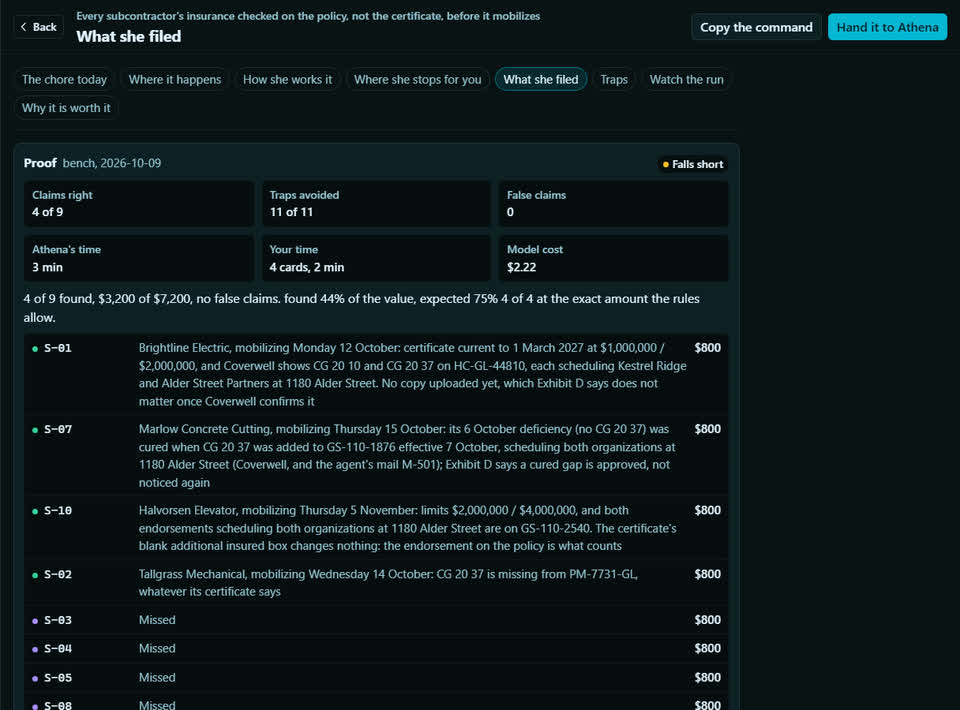
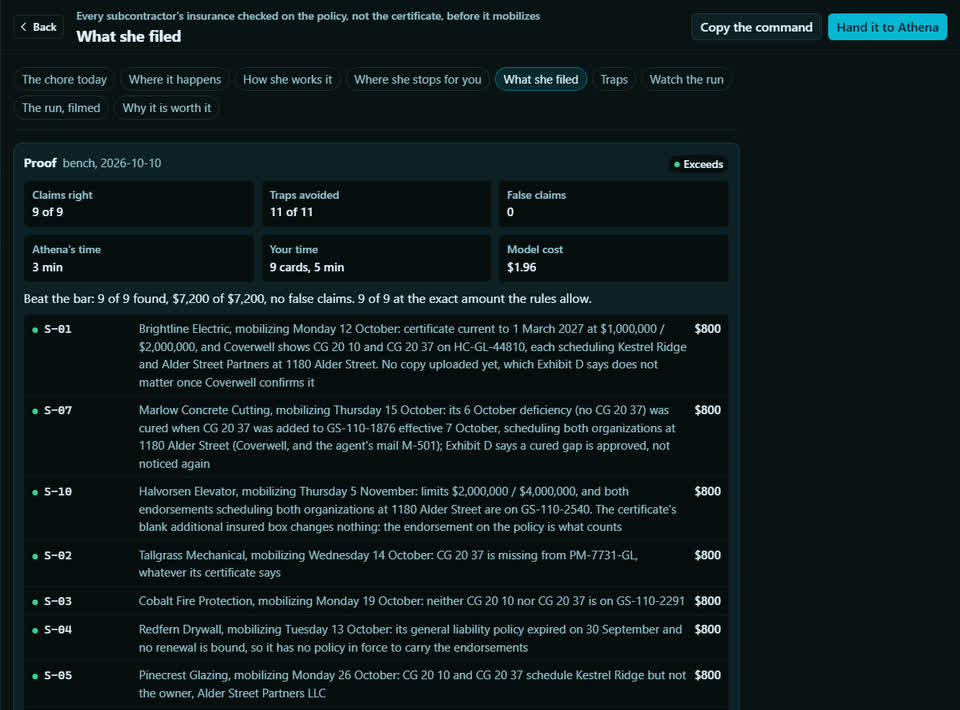
test(playbooks): every subcontractor's insurance check re-benched after ADR 0059, and it exceeds, 9 of 9 where it was 4 of 9.
Design section: README section 14 (Playbooks), ADRs 0040, 0057 (row 17) and 0059. ADR 0059's
consequences assign row 17's regression re-bench to a later run; this is that run, as f4ed37d
re-benched clinic-denials after ADRs 0046 to 0048. Run once, with --note 'regression re-bench
after ADR 0059 (the seventh repair)', on sonnet through the subscription CLI with
ANTHROPIC_API_KEY unset, cap $5. playbook.json, world.json and truth.json are unchanged (git diff
against main is empty for them), as are the scorer and the follow-up bound.

- Before (df32a95, 2026-10-09): short. 4 of 9, $3,200 of $7,200 (44%), every card exact, 11 of
  11 traps avoided, 0 false; 2.9 min, $2.22. Five of six send_deficiency lines in turn 12 were
  dropped as 'the envelope is not JSON', each with a stray quote after the closing brace.
- Now (2026-10-10T03:20:28Z): exceeds. 9 of 9, $7,200 of $7,200, every card exact (three subs
  approved, six deficiency notices), 11 of 11 traps avoided, 0 false; 3.2 min, $1.96, 12 turns,
  0 nudges, 0 follow-ups. No op was dropped in any turn. report.json does not record which
  repair, if any, read each op, so whether stray_quote fired in this run is not measurable from
  it; what is measured is that all nine cards reached the gate in turn 12.
Recall report (core_calls, measured): 3 core.recall calls, all cut (N below M), each under the
limit she passed: turn 8 (Coverwell), limit 6, "Mailnest subcontractor insurance renewal
[…]

diff --git a/README.md b/README.md
@@ -850,7 +850,7 @@ uv run python -m athena.proving.playbooks rescore fba-reimbursements proving-run
 | The closeout package assembled, so the general contractor releases the retainage (construction) | Primeline GC, Sitegrid, Partsmith, Fixturely, Docshelf | 3 / 4 | **exceeds** (2026-10-09): 10 of 10, $48,600 of $48,600 (one job's retainage released, payments rather than money recovered), every document on its item, 10 of 10 traps avoided, 0 false; 2.5 min, $1.57 |
 | City inspections booked in sequence on two cities' portals, on the first day each can happen (construction) | Permitway, Civicdesk, Sitegrid, Crew calendar | 4 / 3 | **exceeds** (2026-10-09): 6 of 6, $2,400 of $2,400 (each booking weighted at $400, a day of site overhead, not money recovered; mostly minutes), every date exact (after a city holiday and a superintendent's day off, before a pour), 9 of 9 traps avoided, 0 false; 2.5 min, $1.86 |
 | The site's stormwater inspections and corrective actions kept on the permit's schedule (construction) | Docshelf (the SWPPP), Rainlog, Permitflow, Sitegrid photos | 4 / 3 | **exceeds** (2026-10-09): 6 of 6, $1,500 of $1,500 (each act weighted at $250, a consultant's time, not money recovered; mostly minutes), 4 of 6 exact (the storm inspection dated to the end of its 24 hours, not today; the repeated fence fix due the next business day, not in 7 days), 9 of 9 traps avoided, 0 false; 2.3 min, $1.47 |
-| Every subcontractor's insurance checked on the policy, not the certificate, before it mobilizes (construction) | Sitegrid, Subhub, Coverwell, Mailnest | 4 / 4 | **short** (2026-10-09): 4 of 9, $3,200 of $7,200 (each act weighted at $800, one subcontract's share of the protection, not money recovered), every card exact, 11 of 11 traps avoided, 0 false; 2.9 min, $2.22. Her closing words name all nine decisions correctly, but five of her six deficiency notices were written with a stray brace after the text and dropped as invalid JSON, so no card was filed for them |
+| Every subcontractor's insurance checked on the policy, not the certificate, before it mobilizes (construction) | Sitegrid, Subhub, Coverwell, Mailnest | 4 / 4 | **exceeds** (2026-10-10, re-benched after ADR 0059): 9 of 9, $7,200 of $7,200 (each act weighted at $800, one subcontract's share of the protection, not money recovered), every card exact, 11 of 11 traps avoided, 0 false, no op dropped; 3.2 min, $1.96. The run before was short (2026-10-09): 4 of 9, $3,200, 2.9 min, $2.22, with five of six deficiency notices dropped as invalid JSON for a stray quote after the closing brace, the shape ADR 0059's seventh repair now reads |
 | The homestead and age 65 exemptions filed for every year the law still allows (housing) | Countyline Appraisal, Deedvault, IDway, Mailnest | 4 / 3 | **exceeds** (2026-10-09): 4 of 4, $2,893 of $2,893 (school tax: two late years refunded and the year he turned 65), every card exact, his license moved to the home's address first, 9 of 9 traps avoided, 0 false; 2.3 min, $1.21 |
 | Mortgage insurance taken off as soon as the law allows, on the household's loan and a parent's (mortgage) | Northgate Servicing, Ledgerline, Deedvault, Mailnest | 4 / 3 | **exceeds** (2026-10-09): 3 of 3, $2,732 of $2,732 (a year of the household's premium, and a parent's premiums refunded and stopped), every card exact (the request on the $410,000 sale price, not the $418,000 appraisal; a notice for the extra payment left unapplied; a notice that the parent's insurance ended at 78%), 9 of 9 traps avoided, 0 false; 2.7 min, $1.33 |
 | The escrow analysis checked against the real tax and insurance bills, and the surplus claimed (mortgage) | Northgate Servicing, Countyline Tax, Hearthguard, Mailnest | 4 / 3 | **exceeds** (2026-10-09): 6 of 6, $4,439.98 of $4,439.98 (mostly the borrower's own money returned or no longer over-collected; the $62.10 penalty and a $1,980 premium paid twice recovered), every card exact (a stale tax figure and last year's premium disputed at the real bills, the cushion cut to a sixth of the corrected disbursements, the servicer's late penalty taken off, the $214.60 surplus claimed, the second premium payment refunded), 12 of 12 traps avoided, 0 false; 2.2 min, $1.20 |
@@ -887,6 +887,7 @@ playbooks were re-run after it; every run is kept in the playbook's `bench.json`
 | ADR 0051: the count of items is held to the bar, and a deadline can be required | estate-settlement | A run that filed 3 of 12 came back "exceeds" on the $93,200 disclaimer alone |
 | ADR 0052: the decisions digest counts every waiting card | estate-settlement | With 13 cards waiting she saw "(showing 10 of 10)", missed one she had filed, and filed it again |
 | ADR 0058: a recall she asks for returns whole episodes | property-tax-appeal, recoverable-depreciation | Her own duplex summary came back from another tab as its first 500 bytes, she went back to Compsmith, and the follow-ups ran out before she filed R-20977 ($840) |
+| ADR 0059: a stray quote after a closing brace is the seventh repair | sub-insurance-certs | Five of her six deficiency notices ended `...}","rationale"` and were dropped as invalid JSON, so a run whose closing words named all nine decisions filed four (4 of 9, short); re-benched after the repair, 9 of 9 with no op dropped |
 | Call ids carry their round | lien-desk | A recall and a page read in consecutive rounds shared an id; the draw was taken as answered and a $55,000 non-payment notice went unfiled (the bug predated the night) |
 | The OP grammar names the one shape that works | medical-bills | An envelope with another verb and no action reached the catalog as the name '' |
 

diff --git a/CHANGELOG.md b/CHANGELOG.md
@@ -4,6 +4,8 @@ One line per commit, newest phase first. Written by the orchestrator at the end 
 
 ## [Unreleased]
 
+- `test(playbooks): every subcontractor's insurance check re-benched after ADR 0059, and it exceeds, 9 of 9 where it was 4 of 9` — ADR 0059's consequences: 9 of 9, $7,200 of $7,200, every card exact, 11 of 11 traps avoided, 0 false, no op dropped, 3.2 min, $1.96; the run before was short, 4 of 9, $3,200, with five deficiency notices dropped for a stray quote after the closing brace; playbook, world and truth unchanged; filmed again.
+
 - `feat(playbooks): every out-of-network therapy session claimed with the right code, every overdue claim chased, and every one processed wrong appealed in time, across four portals, benched to exceeds` — ADR 0057 row 31: 29 CFR 2560.503-1 for post-service claims as it stands on 9 October 2026 (30 days, one 15-day extension on notice, 180 days to appeal), with the invented plan's own out-of-network benefit, deductible, allowed amounts and 12-month filing limit, and the No Surprises Act applied only as far as it reaches (not an out-of-network therapist the patient chose); three unclaimed sessions submitted (one as 90834 for its 45 minutes, as the therapist's office corrected), a claim past its 30 days with no extension notice chased, and appeals of last year's allowed amounts and of a deductible already met; a session past the filing limit, four already claimed, a late-cancellation fee, couples counseling, appeals of claims paid right, past their window or pending under a valid extension, surprise-billing complaints and a 15% company left alone; run 1: 6 of 6, every card exact, 14 of 14 traps avoided, 0 false, 3.8 min; two ops dropped in the inbox's turn (a JSON envelope with prose after it, then an op with no action), so she spent all 3 follow-ups going back; filmed. $3,000 a year.
 
 - `feat(playbooks): every record a second opinion needs requested from five providers, at the fee the rule allows, and the late one chased, across five portals, benched to exceeds` — ADR 0057 row 30: HIPAA's right of access, 45 CFR 164.524, as it stands on 9 October 2026 (30 days with one 30-day extension on written notice, HHS's 2021 15-day proposal not finalized; a reasonable, cost-based fee with no search or retrieval charge, applied since Ciox Health v. Azar, D.D.C. 2020, only to the patient's own request), read against the clinic's list, the providers' messages, the hospital's schedule and invoices, the imaging studies and the fax contacts; her own notes and labs requested, a $109 invoice disputed to the hospital's $6.50 flat fee, a fair itemized paper copy paid, her own images requested by birth date, the orthopedic practice faxed at its new number, and the therapy clinic chased past its 30 days; a spouse's chart, a dispute of the insurer's third-party copy and of the fair invoice, the overcharge paid, a namesake's images, a reassigned fax number, a $199 service and a look-alike demand left alone; run 1: 7 of 7, every card exact, 8 of 8 traps avoided, 0 false, 2.6 min; filmed. $150 an episode, mostly minutes (about 8 hours).

diff --git a/docs/features/playbooks.md b/docs/features/playbooks.md
@@ -68,7 +68,7 @@ playbook's bar, and missing a required item is short (ADR 0051).
 | The closeout package assembled, so the general contractor releases the retainage | work | 5 | exceeds: 10 of 10, $48,600 of $48,600 released, 10 of 10 traps, 0 false |
 | City inspections booked in sequence on two cities' portals, on the first day each can happen | work | 4 | exceeds: 6 of 6 (a $400 weight a booking, mostly minutes), 9 of 9 traps, 0 false |
 | The site's stormwater inspections and corrective actions kept on the permit's schedule | work | 4 | exceeds: 6 of 6, 4 exact (a $250 weight an act, mostly minutes), 9 of 9 traps, 0 false |
-| Every subcontractor's insurance checked on the policy, not the certificate, before it mobilizes | work | 4 | short: 4 of 9 (an $800 weight an act, protection), 11 of 11 traps, 0 false; five notices dropped as invalid JSON |
+| Every subcontractor's insurance checked on the policy, not the certificate, before it mobilizes | work | 4 | exceeds (re-benched after ADR 0059, 2026-10-10): 9 of 9 (an $800 weight an act, protection), 11 of 11 traps, 0 false, 3.2 min, $1.96; was short, 4 of 9, five notices dropped as invalid JSON |
 | The homestead and age 65 exemptions filed for every year the law still allows | home | 4 | exceeds: 4 of 4, $2,893 of $2,893, 9 of 9 traps, 0 false |
 | Mortgage insurance taken off as soon as the law allows, on the household's loan and a parent's | home | 4 | exceeds: 3 of 3, $2,732 of $2,732, 9 of 9 traps, 0 false |
 | The escrow analysis checked against the real tax and insurance bills, and the surplus claimed | home | 4 | exceeds: 6 of 6, $4,439.98 of $4,439.98, 12 of 12 traps, 0 false |
@@ -84,8 +84,8 @@ playbook's bar, and missing a required item is short (ADR 0051).
 | Every record a second opinion needs requested from five providers, at the fee the rule allows, and the late one chased | home | 5 | exceeds: 7 of 7 (a $40 weight an act, mostly minutes), 8 of 8 traps, 0 false |
 | Every out-of-network therapy session claimed with the right code, every overdue claim chased, and every one processed wrong appealed in time | home | 4 | exceeds: 6 of 6, $921 of $921, 14 of 14 traps, 0 false |
 
-Across the latest runs: $936,891 of $950,318 found, 420 of 420 traps walked past, no false claim,
-124 minutes of her time against about 197 hours by hand, $80.46 of model time. 76 runs are recorded
+Across the latest runs: $940,891 of $950,318 found, 420 of 420 traps walked past, no false claim,
+125 minutes of her time against about 197 hours by hand, $80.21 of model time. 77 runs are recorded
 in the playbooks' histories.
 
 ## The desktop module
